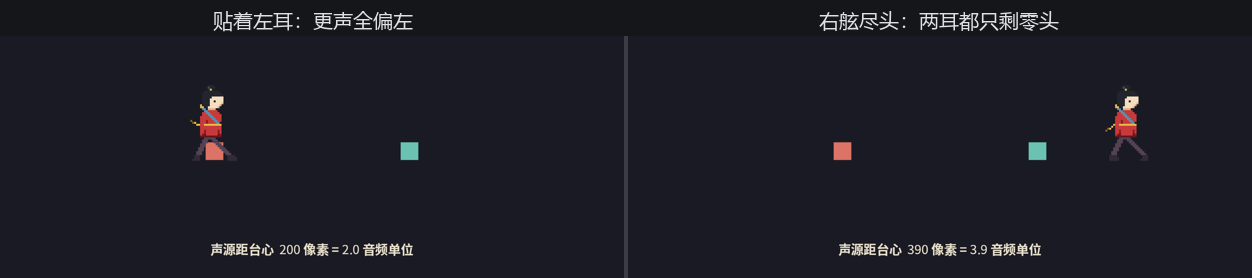
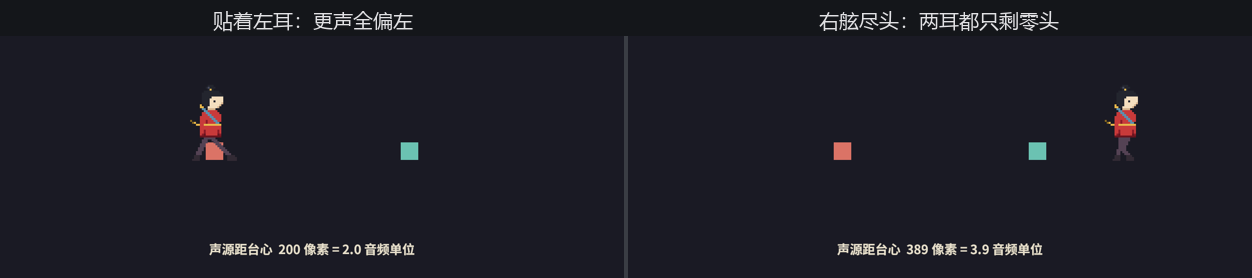
ch19: 迁移到 0.19

diff --git a/code/ch19-audio/examples/listing-19-08.rs b/code/ch19-audio/examples/listing-19-08.rs
@@ -152,7 +152,8 @@ fn ear_gains(emitter: Vec2, listener: &SpatialListener, origin: Vec2) -> (f32, f
     let emitter = emitter * AUDIO_SCALE;
     let (dl, dr) = (left.distance(emitter), right.distance(emitter));
     let gap = left.distance(right);
-    let pan = |near: f32, far: f32| (((near - far) / gap + 1.0) / 4.0 + 0.5).min(1.0);
+    // 声像是给远耳兜底的配重：本耳越近，系数越收向 0.5；“近处响”由下面的衰减项负责
+    let pan = |this: f32, other: f32| (((this - other) / gap + 1.0) / 4.0 + 0.5).min(1.0);
     let dist = |d: f32| (1.0 / (d * d)).min(1.0);
     (pan(dl, dr) * dist(dl), pan(dr, dl) * dist(dr))
 }

diff --git a/book/src/ch19-05-spatial-audio.md b/book/src/ch19-05-spatial-audio.md
@@ -16,7 +16,7 @@
 
 ```text
 场记：阿燕在左舷  180 像素处，左耳 0.00、右耳 0.00（sink 暂停 false）。
-场记：阿燕在右舷   58 像素处，左耳 0.00、右耳 0.00（sink 暂停 false）。
+场记：阿燕在右舷   60 像素处，左耳 0.00、右耳 0.00（sink 暂停 false）。
 ```
 
 哪儿都是 0.00。要破案得去衰减模型的源码里看一眼。Bevy 的空间音频由底层音频库 rodio 实现，模型很直白：先把声源**并成单声道**，再分给左右声道，每只耳朵的增益**各算各的**：
@@ -25,8 +25,8 @@
 
 <span class="caption">Figure 19-5：每只耳朵各算各的账——声像系数 ×min(1/d², 1)</span>
 
-- **衰减**按距离平方反比：`min(1/d², 1)`——一个单位以内不衰减，之后随 d² 跌落；
-- **声像**看双耳距离差：近的那只耳朵系数大（范围 0.5 到 1），这就是“左边来的偏左响”；
+- **衰减**按距离平方反比：`min(1/d², 1)`——一个单位以内不衰减，之后随 d² 跌落。“左边来的偏左响”主要靠它：近耳的 d 小，1/d² 大得多；
+- **声像**看双耳距离差：范围 0.5 到 1，声源贴向哪只耳朵，哪只的系数越收向 0.5、对面那只越抬向 1.0。方向别读反了——这一项不是“近了更响”，而是给远耳兜底的配重，防止声像彻底偏死在一边；
 - 两项相乘，就是这只耳朵实际听到的份额。
 
 坑就藏在那个 **d** 里：它用的是**换算后的距离**，而默认换算比例是 1:1——在我们的 2D 戏台上，1 像素就是 1 个单位。阿燕离耳朵动辄两三百像素，d = 300 时衰减是 1/90000，比 −90 dB 还低——不是没声音，是衰没了。
@@ -63,15 +63,18 @@ cargo run -p ch19-audio --example listing-19-08
 
 ```text
 老雷：熄灯，巡夜。阿燕打更，你们坐台中听远近。
-场记：阿燕在左舷  181 像素处，左耳 0.53、右耳 0.07（sink 暂停 false）。
-场记：阿燕在右舷   59 像素处，左耳 0.12、右耳 0.33（sink 暂停 false）。
-场记：阿燕在右舷  299 像素处，左耳 0.04、右耳 0.49（sink 暂停 false）。
-场记：阿燕在左舷  418 像素处，左耳 0.10、右耳 0.03（sink 暂停 false）。
+场记：阿燕在左舷  180 像素处，左耳 0.53、右耳 0.07（sink 暂停 false）。
+场记：阿燕在右舷   60 像素处，左耳 0.12、右耳 0.34（sink 暂停 false）。
+场记：阿燕在右舷  300 像素处，左耳 0.04、右耳 0.48（sink 暂停 false）。
+场记：阿燕在右舷  301 像素处，左耳 0.04、右耳 0.47（sink 暂停 false）。
+场记：阿燕在右舷   61 像素处，左耳 0.12、右耳 0.34（sink 暂停 false）。
+场记：阿燕在左舷  179 像素处，左耳 0.53、右耳 0.07（sink 暂停 false）。
+场记：阿燕在左舷  419 像素处，左耳 0.10、右耳 0.03（sink 暂停 false）。
 ```
 
-这回有远近也有方位了：阿燕贴近左耳时左 0.53、右 0.07，更声明明白白偏左；走到台口尽头，两耳都只剩零头。耳机里听到的与台账一致——梆子声跟着她从左滑到右，远了轻、近了重。
+这回有远近也有方位了，七笔正好一个来回：阿燕贴近左耳时左 0.53、右 0.07，更声明明白白偏左；在右舷台口折返，连着两笔都停在三百像素上下；回程的数字原路镜像——增益只认几何位置，不认走向；最后到左舷尽头，两耳都只剩零头。耳机里听到的与台账一致——梆子声跟着她从左滑到右，远了轻、近了重。
 
-![两幅截图：左幅阿燕正走到左侧红色耳朵方块上方，HUD 显示声源距台心 200 像素合 2.0 音频单位；右幅阿燕在右侧远端，HUD 显示 390 像素合 3.9 音频单位](images/ch19/fig-19-06-night-patrol.png)
+![两幅截图：左幅阿燕正走到左侧红色耳朵方块上方，HUD 显示声源距台心 200 像素合 2.0 音频单位；右幅阿燕在右侧远端，HUD 显示 389 像素合 3.9 音频单位](images/ch19/fig-19-06-night-patrol.png)
 
 <span class="caption">Figure 19-6：巡夜——贴着左耳与远在右舷尽头，HUD 报换算后的距离</span>
 

diff --git a/book/src/ch19-03-the-audio-sink.md b/book/src/ch19-03-the-audio-sink.md
@@ -17,11 +17,13 @@ cargo run -p ch19-audio --example listing-19-05
 ```text
 琴师：曲谱递上去了。场记，盯着后台，看引擎哪一帧把缰绳递过来。
 场记：第 1 帧——查 AudioSink：还没有。
-场记：第 1 帧——曲谱到货。
-场记：第 2 帧——AudioSink 上岗。音量 Linear(1.0)，速度 ×1，暂停 false，进度 0.02 秒。
+场记：第 2 帧——曲谱到货。
+场记：第 3 帧——AudioSink 上岗。音量 Linear(1.0)，速度 ×1，暂停 false，进度 0.72 秒。
 ```
 
-台账上有两个间隔。**`Startup` 里 spawn，第 1 帧查不到 sink**——哪怕曲谱当帧就到了货（小文件加载快，第 14 章的库房广播第 1 帧就报了 `LoadedWithDependencies`）。因为引擎的开播系统住在 `PostUpdate`：它看到“有 `AudioPlayer`、资产已到货、还没有 sink”的实体，才创建声音通路、用 `Commands` 把 `AudioSink` 插上去——命令要到同步点才落账（第 6 章的规矩），所以**最早也得第 2 帧才查得到**。要是换一个大文件或者慢磁盘，“到货”本身还会再晚几帧，sink 跟着顺延。
+台账上有两个间隔。第一个在到货：`load` 是异步的（第 14 章），这支十秒的小曲子也要到第 2 帧才有库房广播 `LoadedWithDependencies`——装卸工得跟首帧赛跑，文件小到极致也未必赶得上当帧；换大文件或慢磁盘，还会再晚几帧。第二个间隔才是本节的正题：**到货那一帧照样查不到 sink**。引擎的开播系统住在 `PostUpdate`：它看到“有 `AudioPlayer`、资产已到货、还没有 sink”的实体，才创建声音通路、用 `Commands` 把 `AudioSink` 插上去——命令要到同步点才落账（第 6 章的规矩），所以 **sink 最早也得在到货的下一帧才查得到**。
+
+末行还藏着一个数：sink 上岗被看见的那一刻，`position()` 已经走到 0.72 秒。开播发生在上一帧末的 `PostUpdate`，而启动初期渲染管线还在热身，第 2 帧到第 3 帧之间隔了小一秒的墙钟时间——声卡可不等渲染，先把曲子放出去了。声音一旦交出去就自顾自走，这个脾气本节后半场还要正面撞上一回。
 
 这个时序决定了惯用写法：查 sink 的系统永远做好“它还不在”的准备——`Query` 加 `let Ok(sink) = q.single() else { return; }`，或者干脆用 `Single` 让系统在 sink 上岗前整个跳过（第 4 章讲过：`Single` 校验失败，系统静默歇班）。本章的例子两种都用。
 
@@ -65,7 +67,7 @@ cargo run -p ch19-audio --example listing-19-06
 琴师：续上，进度一秒没丢。
 ```
 
-![三联截图：开戏时戏台钟与曲子进度同为 2.9 秒并排走；按空格中场后阿燕定格、戏台钟停在 3.1 秒、曲子进度却涨到 6.4 秒仍标着奏；再按 P 后曲子进度停在 6.5 秒标停](images/ch19/fig-19-03-two-pauses.png)
+![三联截图：开戏时戏台钟 3.1 秒与曲子 3.0 秒并排走；按空格中场后阿燕定格、戏台钟停在 3.1 秒、曲子进度却涨到 6.4 秒仍标着奏；再按 P 后曲子进度停在 6.5 秒标停](images/ch19/fig-19-03-two-pauses.png)
 
 <span class="caption">Figure 19-3：中场两停对照——戏台钟停在 3.1 秒，曲子的 position 自顾自走到 6.4 秒；按 P 才真停</span>
 

diff --git a/book/src/ch19-01-the-first-note.md b/book/src/ch19-01-the-first-note.md
@@ -12,7 +12,7 @@
 
 ## 一记闷棍：UnrecognizedFormat
 
-先别急着跑。如果你在自己的工程里照抄这段代码，而 `Cargo.toml` 写的是裸的 `bevy = "=0.18.1"`，第一声不会是音乐：
+先别急着跑。如果你在自己的工程里照抄这段代码，而 `Cargo.toml` 写的是裸的 `bevy = "=0.19.0"`，第一声不会是音乐：
 
 ```console
 cargo run -p ch19-audio --example listing-19-01
@@ -21,14 +21,14 @@ cargo run -p ch19-audio --example listing-19-01
 ```text
 琴师：曲谱递上去了——《长风渡》序曲，奏一遍。
 
-thread 'Compute Task Pool (8)' (24284) panicked at C:\Users\94887\.cargo\registry\src\index.crates.io-1949cf8c6b5b557f\bevy_audio-0.18.1\src\audio_source.rs:102:56:
+thread 'Compute Task Pool (8)' (27020) panicked at C:\Users\94887\.cargo\registry\src\index.crates.io-1949cf8c6b5b557f\bevy_audio-0.19.0\src\audio_source.rs:97:56:
 called `Result::unwrap()` on an `Err` value: UnrecognizedFormat
 note: run with `RUST_BACKTRACE=1` environment variable to display a backtrace
 Encountered a panic in system `<Enable the debug feature to see the name>`!
 Encountered a panic in system `<Enable the debug feature to see the name>`!
 ```
 
-`UnrecognizedFormat`——解码器不认识这个格式。Bevy 内置四种音频格式的解码：`.ogg`（feature 名 `vorbis`）、`.wav`、`.mp3`、`.flac`，但**默认特性里只开了 `vorbis`**。我们的 `.wav` 要过解码这一关，得在依赖上把闸打开——这就是本章 `Cargo.toml` 里那行 feature 的来历：
+`UnrecognizedFormat`——解码器不认识这个格式。Bevy 内置六种音频格式的解码：`.ogg`（feature 名 `vorbis`）、`.wav`、`.mp3`、`.flac`、`.aac`、`.mp4`，但**默认特性里只开了 `vorbis`**。我们的 `.wav` 要过解码这一关，得在依赖上把闸打开——这就是本章 `Cargo.toml` 里那行 feature 的来历：
 
 ```toml
 bevy = { workspace = true, features = ["wav"] }

diff --git a/PROGRESS.md b/PROGRESS.md
@@ -12,7 +12,7 @@
 | 全书大纲 OUTLINE.md | ✅ 2026-06-12 | 38 章 + 6 附录，用户已审定 |
 | 章节写作 | 🟡 | 进度见下表 |
 | Bevy 0.19 大纲评估与 OUTLINE 修订 | ✅ 2026-07-02 | migration/0.19-outline-assessment.md，P-1～P-13 全部批准；38 章 + 6 附录结构不变，ch1–21 编号全保 |
-| 0.19 全书迁移执行（S1–S3） | 🟡 | 计划与逐章工单见 migration/0.19-migration-plan.md；S1＋前置检查点 C1/C2 完成 2026-07-02（workspace 切 0.19.0 全绿零警告；C1：字体方案不换，ICU4X 警告与裁切变化记入 ch16 工单；C2：资源实体占低位索引、count_spawned 计入、广查询可见——实测数据见计划文件），S2 逐章迁移进行中（ch1–18 ✅ 2026-07-03） |
+| 0.19 全书迁移执行（S1–S3） | 🟡 | 计划与逐章工单见 migration/0.19-migration-plan.md；S1＋前置检查点 C1/C2 完成 2026-07-02（workspace 切 0.19.0 全绿零警告；C1：字体方案不换，ICU4X 警告与裁切变化记入 ch16 工单；C2：资源实体占低位索引、count_spawned 计入、广查询可见——实测数据见计划文件），S2 逐章迁移进行中（ch1–19 ✅ 2026-07-03） |
 
 ## 章节状态
 
@@ -36,7 +36,7 @@
 | 16 | 文本与字体 | ✅ | 已迁 0.19。code/ch16-text（src/main.rs + examples/listing-16-01～14，main.rs 即 Listing 16-15；listing-16-05 走 crate 转发 feature `system_font_discovery` + required-features 门控；中文字体资产为 Noto Sans SC 的 GB2312 子集，另有可变字体 MonaSans-VariableFont.ttf，scripts/make_ch16_assets.py 一键重建）；book/src/ch16-00～12（新增 16-03 字模三种叫法／16-04 向系统借字模／16-05 可变字体／16-07 会自己变的字号）；插图 images/ch16（Figure 16-1～16，含 1 张 SVG、2 张动图，scripts/make_ch16_figures.py 一键重建） |
 | 17 | 输入处理 | ✅ | code/ch17-input（src/main.rs + examples/listing-17-01～07，其中 17-02 在 no-compile/ 下为编译失败示例；main.rs 即 Listing 17-9；assets 全部复用 ch15/ch16，scripts/make_ch17_assets.py 一键就位）；book/src/ch17-00～07；插图 images/ch17（Figure 17-1～8，含 4 张 SVG、1 张动图，scripts/make_ch17_figures.py 用 SendInput 发真实键鼠一键重建）；已迁 0.19（代码零改、输出块零改——键鼠全示例实跑逐字一致，含系统重复探针与 448/−512 坐标复现；gamepad/touch 无硬件，vendor 源码 0.18↔0.19 diff 实证零变化＋编译实跑容错路径；4 张位图重建，fig-17-05 与旧图逐像素一致） |
 | 18 | 时间、定时器与 FixedUpdate | ✅ | code/ch18-time（src/main.rs + examples/listing-18-01～10，其中 18-02 在 no-compile/ 下为编译失败示例；main.rs 即 Listing 18-11；assets 全部复用 ch15/ch16，scripts/make_ch18_assets.py 一键就位）；book/src/ch18-00～07；插图 images/ch18（Figure 18-1～11，含 7 张 SVG、1 张动图，scripts/make_ch18_figures.py 用 SendInput 发真实按键一键重建）；已迁 0.19（新增“过一会儿再办：延迟命令”一节，配 listing-18-06、Figure 18-5，原 18-4～18-6 节与 Listing/Figure 顺延；驿站听戏台钟实测入正文） |
-| 19 | 音频 | ✅ | code/ch19-audio（src/main.rs + examples/listing-19-01～08，main.rs 即 Listing 19-9；开 bevy `wav` feature，报错环节为运行期 UnrecognizedFormat panic（19.1，真实复现）；音频资产全部由 scripts/make_ch19_assets.py 用 Python 标准库合成 WAV，字体贴图复用前章）；book/src/ch19-00～06；插图 images/ch19（Figure 19-1～7，含 3 张 SVG，scripts/make_ch19_figures.py 用 SendInput 发真实按键一键重建，波形图直接读合成 WAV 采样绘制） |
+| 19 | 音频 | ✅ | code/ch19-audio（src/main.rs + examples/listing-19-01～08，main.rs 即 Listing 19-9；开 bevy `wav` feature，报错环节为运行期 UnrecognizedFormat panic（19.1，真实复现）；音频资产全部由 scripts/make_ch19_assets.py 用 Python 标准库合成 WAV，字体贴图复用前章）；book/src/ch19-00～06；插图 images/ch19（Figure 19-1～7，含 3 张 SVG，scripts/make_ch19_figures.py 用 SendInput 发真实按键一键重建，波形图直接读合成 WAV 采样绘制）；已迁 0.19 |
 | 20 | 项目实战 I：完整的 2D 游戏 | ✅ | code/ch20-breakout（src/ 为 main.rs + game/menu/score/audio 四插件的最终版；examples/listing-20-01～07 为分步阶段版，no-compile/listing-20-08 为编译失败示例；开 bevy `wav` feature，报错环节为 E0603 与“忘注册插件→缺资源 panic”双坑，均真实复现；音效由 scripts/make_ch20_assets.py 合成，BGM/堂鼓复用 ch19、字体复用 ch16）；book/src/ch20-00～08；插图 images/ch20（Figure 20-1～11，含 4 张 SVG、1 张动图，scripts/make_ch20_figures.py 一键重建——内置跟球 bot 发真实按键打出全部局面） |
 | 21 | 3D 入门：Mesh 与 Material | ✅ | code/ch21-meshes（src/main.rs 即 Listing 21-10 + examples/listing-21-01～09，其中 21-04 在 no-compile/ 下为编译失败示例（E0308 忘 meshes.add）；另一坑为运行期静默缺陷：手搓 Mesh 忘写法线→旗面对灯失聪，零警告；班旗贴图由 scripts/make_ch21_assets.py 用 PIL 合成）；book/src/ch21-00～06；插图 images/ch21（Figure 21-1～12，含 3 张 SVG，scripts/make_ch21_figures.py 一键重建） |
 | 22 | 光照与阴影 | ⬜ | |

diff --git a/book/src/ch19-06-opening-night.md b/book/src/ch19-06-opening-night.md
@@ -61,7 +61,7 @@ cargo run -p ch19-audio
 
 ## 小结
 
-- **声音是资产，发声是实体**：`AudioPlayer(handle)` spawn 即播，资产没到货就等到货那刻开播。格式按 feature 开闸——默认只有 `vorbis`（.ogg），`wav`/`mp3`/`flac` 自取；没开 feature 的格式能加载（loader 按资产类型选中、只搬字节），到解码才 panic `UnrecognizedFormat`
+- **声音是资产，发声是实体**：`AudioPlayer(handle)` spawn 即播，资产没到货就等到货那刻开播。格式按 feature 开闸——默认只有 `vorbis`（.ogg），`wav`/`mp3`/`flac`/`aac`/`mp4` 自取；没开 feature 的格式能加载（loader 按资产类型选中、只搬字节），到解码才 panic `UnrecognizedFormat`
 - **`PlaybackSettings` 是开播设定单**：`AudioPlayer` 的 required component，默认 `ONCE`。四档 `PlaybackMode`——`Once` 播完留壳（不可复用，重播得拆装音频组件），`Loop` 不完，`Despawn` 连子实体拆台（一次性音效的标准答案），`Remove` 卸件留体。`speed` 快慢与音高绑定，一份素材多个音色
 - **播放中的控制走 `AudioSink`**：引擎开播时在 `PostUpdate` 经 `Commands` 插上，最早下一帧可查——查询永远备好“还不在”的退路。面板：`pause`/`play`/`toggle_playback`、`set_volume`（要 `&mut`）、`set_speed`、`position`、`stop`、`empty`、`mute` 三件套
 - **暂停游戏不等于暂停音频**：声音的供给线在声卡侧线程，`Time<Virtual>` 拧不动它。中场 = `time.pause()` 加遍历全部 sink `pause()`——两个组件类型都要遍历

diff --git a/migration/0.19-migration-plan.md b/migration/0.19-migration-plan.md
@@ -112,7 +112,7 @@ workspace 版本切 0.19    →    每章：行为实测→正文改写→插图
 | ch16 | [x] | 原 10 listing 重编号为 01–03/07–08/10–14，新增 4 个（04 FontSource 三叫法、05 系统字体、06 可变字体、09 FontSize 单位），main 即 Listing 16-15；crate 增设转发 feature `system_font_discovery`（listing-16-05 required-features 门控——**整 crate 常开会让系统回退吃掉豆腐块教学点，实测否决**）；新资产 MonaSans-VariableFont.ttf（OFL 原样分发，assets 脚本从 vendor 复制/bevy 仓库下载）；待查两项落定：`Font::from_bytes(Vec<u8>)->Font` 不再返回 Result 且**不解析**（正文未提及零波及），Text2dReader/Writer＝`TextReader/Writer<Text2d>` 别名、序号语义不变 | 已完成：新增小节 ×4（ch16-03/04/05/07），其余 9 文件全部改写；**C1 两事实落点**：①ICU4X 警告在 ch16-01 豆腐块处正面讲解（实测裸行无时间戳、绕过 tracing、RUST_LOG=off 压不掉、条数随重排波动——提词器 6 秒 40 条在 ch16-09 作重排旁证）②TextBounds 高度实测**完全不裁**（宽度只管折行，溢出行整行淌出框外；C1 的「裁半」实为溢出行压在框图边框上的视觉），ch16-08 框三改写＋listing 标签「装不下就裁」→「装不下呢？」；**行为翻案 ×3**：`.ttc` 从「报错收场」变直接可用（typed load 按类型选 loader＋fontique 认 collection，微软雅黑实测上台）、「借来的字形」不复存在（缺字不回退，16-02 整节改写为「缺字不借」）、路径写错有 `Path not found` ERROR；**新实测**：Family+FontWeight 家族选面成立（handle 丢失会清库——FontStash 教学点）、写错家族名静默消失、generic 无 feature 时 error_once+整行不渲染、开 feature 后 237 家族/五语义族解析/FangSong 直出/豆腐绝迹变静默替换、可变字体 wght/wdth 拨轴+variations 覆盖 weight 字段+无斜面不伪斜、FontSize 六单位 Text2d 全通（vendor doc「viewport 不支持 Text2d」系陈旧注释，以实测为准）、RemSize 20→30 全场 Rem 齐动、LetterSpacing::Rem 乘 RemSize 非字号（枚举 doc 注释有误）；提词器输出 19→18 字（正文原笔误按实跑订正）；插图 16 张全部重建（新增 4 张，SVG 字号标注改 FontSize::Px 口径）；SUMMARY/编号/交叉引用全同步 | 16 | **高**＋图 |
 | ch17 | [x] | 代码零改（S1 的 main.rs TextFont 之外无新命中；bevy_input 源码 0.18↔0.19 diff 实证：gamepad/button_input/common_conditions 逐字节零 diff，keyboard/touch/gestures 仅 reflect 注册差异，mouse 仅 `MouseWheel` 新增 `phase` 字段——本章未触及） | 已完成：**输出块零改**——键盘/鼠标全示例实跑逐字一致（17-04 的 448/−512 坐标精确复现；17-03「系统重复」用连发 keydown 探针实证 repeat 标记与只出一剑；17-05 G 锁定后光标钉死＋位移照动实测）；gamepad/touch 无硬件：编译＋容错路径实跑（无手柄正常跑、鼠标点击不伪装触摸）＋API 对照 vendor 零变化，行为描述维持；no-compile 17-02 报错块探针逐字一致；TextFont 正文零波及；ch17-05「在 0.18 里」版本注记去除（唯一正文改动）；官方示例 touch_input.rs 仍在；4 位图重建、fig-17-05 与旧图逐像素一致（曾现拖动丢步，探针链实证为 SendInput 注入 bot 的帧对齐脆弱性、非引擎变化——写入值与渲染闭环全量 1053.5，`drag_right_button` 加 NOCOALESCE＋首尾 0.5s 缓冲后确定性全量），4 SVG 无过期标注 | 8 | 轻＋图 |
 | ch18 | [x] | 新增 listing-18-06（《连珠箭》收官加彩：三息定场＋中桩报「中」），原 06～09 顺延为 07～10、main 即 Listing 18-11（文件头/正文/图脚本三处同步）；其余代码零改（S1 的 TextFont 3 文件之外无新命中；check --all-targets 绿） | 已完成：**新小节「过一会儿再办：延迟命令」**（ch18-04，Timer/Stopwatch 后、鼓师账本前；原 18-4～6 节顺延 18-5～7，Figure 18-5～10 顺延 18-6～11，新增手绘 fig-18-05-delayed-post.svg，SUMMARY/ch20 四处小节号引用同步）——**驿站时钟归属实测**：输出块自带铁证（倒数期间中场 2 秒，「两息」仍落戏台钟 2.0、怀表已 4.0——延迟命令过戏里的日子），探针另证 relative_speed 0.5 下 0.4 秒件走 0.8 秒人间、投递在 PreUpdate（First 看不见、当帧 Update 看得见）、粒度为帧；实体 ID 当场分配（对未出生实体预约 despawn，官方文档例实证）；Timer/delayed 分工口径入正文：要过程（fraction/晃劲）、要反复（reset 冷却）、要撤单的归 Timer——延迟命令无撤单机制（release note 明示），预约 despawn 撞上提前死亡刷警告、预期内场合荐 try_despawn（探针实证不炸）；**行为回归**：main＋9 examples 全实跑——18-01/03/05/07/main 输出逐字一致（含 overstep 10/40/20 追帧记账、赶月全套台词），18-04 机制文案逐字一致（拒绝余数/匣号随按键相位漂，非 0.19 差异，块保留），18-08 慢板段「鼓师第 1 招」行位与排序解读按实跑改写（这次第二下才撞上鼓点；「同帧鼓师先开口」教学点保留），18-09 关键行「结清 2 招——共接 4 招」复现；no-compile 18-02 报错块探针逐字一致零改；**驱动方法论坑（供 ch19/20 参考）**：0.19 的 ICU4X 对每次中文文本重排刷 stderr（HUD 高频刷新的示例每秒几十行），临时驱动脚本若用 PIPE 收输出且不及时读，4KB 管道缓冲塞满→子进程写日志阻塞→winit 消息泵冻结（窗口未响应、SendInput 键全丢、乱序）——行为验证驱动一律文件重定向；正式图脚本走 DEVNULL 天然免疫（已扫 scripts/ 零 PIPE）；4 位图重建逐图核对（fig-18-09 右幅 19 招按实图订正 alt；动图 112KB、逐帧量化：替身 27px 三帧一跳/静止帧 53%，阿燕连续小步/静止帧 2%），7 SVG（含新图）过目无过期标注 | 10 | 轻~中＋图 |
-| ch19 | [ ] | TextFont（S1 已扫清）；`wav` feature 正常 | 音频格式/默认 feature 叙述按 0.19（默认仅 vorbis）；UnrecognizedFormat panic 复现重验；listing-19-08 自算的双耳增益公式对照 rodio 0.22 源码复核（正文数字随之验证） | 7 | 中＋图 |
+| ch19 | [x] | 代码近零改：仅 listing-19-08 pan 闭包参数名 near/far→this/other＋一行配重注释（公式零改，改后重跑数字不变）；check --all-targets 绿 | 已完成：**默认 feature 两版对照实证**——0.18 与 0.19 的默认音频解码**同为仅 vorbis**（0.18 各 profile 引 `audio = ["bevy_audio","vorbis"]`；0.19 default 直列 audio，内容相同），工单「0.18 默认还带别的解码器」系预扫误报、正文「默认只开 vorbis」口径原本成立；真正变化是格式 feature 家族 0.18 四种（wav/mp3/flac/vorbis）→0.19 六种一线（+aac/mp4，另有 symphonia-* 换解码器变体与 audio-all-formats 集合）——正文「内置四种」改「六种」（ch19-01＋ch19-06 小结）；**UnrecognizedFormat 重验**：scratchpad 裸 `=0.19.0` 探针工程真实复现，panic 点 `bevy_audio-0.19.0\src\audio_source.rs:97:56`（旧 0.18.1 为 :102:56），错误名/note 行/两行 Encountered 逐字不变，块按实跑更新；**19-08 公式复核**：rodio 0.20.1↔0.22.2 的 `Spatial::set_positions` 逐字一致，listing 复算与 0.22 源码逐项吻合、正文增益数字全部有效；**发现 0.18 期正文/SVG 声像方向叙述与源码相反**（「近的那只耳朵系数大」——实为近耳收向 0.5、远耳抬向 1.0 的防一边倒配重，「偏左响」靠 1/d² 项；实测左 0.53=0.529pan×1.0dist 佐证）→ ch19-05 正文、fig-19-05 SVG、代码注释三处按源码修正；**行为实测**：main＋8 examples 全实跑，19-01/02/03/04/06/07/main 输出逐字一致；19-05 时序块按实跑更新（到货第 2 帧/上岗第 3 帧/进度 0.72 秒——4 跑 3:1 多数形态，论证改写为「装卸跟首帧赛跑，小文件也未必赶上当帧」＋新增 0.72 秒解读呼应「声不归帧循环管」）；19-08 台账换 7 笔完整来回实跑（左 180→右 60/300/301→回程镜像→左 419 尽头；0.18 期旧块 4 行按运动学并非连续台账，当场以真实连续片段替换；另建 scale=1 变体实证「全程无声」台账 0.00/0.00）；插图：资产＋4 PNG 重建逐图核对（fig-19-03 左幅读数 3.1/3.0、fig-19-06 右幅 389 像素——两处 alt 同步；fig-19-01/07 与正文吻合），fig-19-02/04 SVG 过目无过期标注；无痕 grep 零命中（0.19.0 两处属依赖声明/panic 路径实跑事实）；mdbook build 绿 | 7 | 中＋图 |
 | ch20 | [ ] | TextFont（3 文件）；`wav` 正常 | 对标示例路径 showcase/；**全流程回归**：bot 打靶脚本重跑（文本布局变化可能挪 UI 位置，预留调参） | 11 | 中＋图 |
 | ch21 | [ ] | 代码零改（`ConicalFrustum` 0.19 原样保留，Frustum 预扫误报）；`shadows_enabled` 未用（已扫） | 法线静默缺陷示例重验；灯光相关叙述核对；**S1 发现**：ch21-02 报错块内嵌 `bevy_mesh-0.18.1\...:98` 路径行号 → 按 0.19 实跑更新（`0.19.0\...:102`） | 12 | 轻~中＋图 |
 